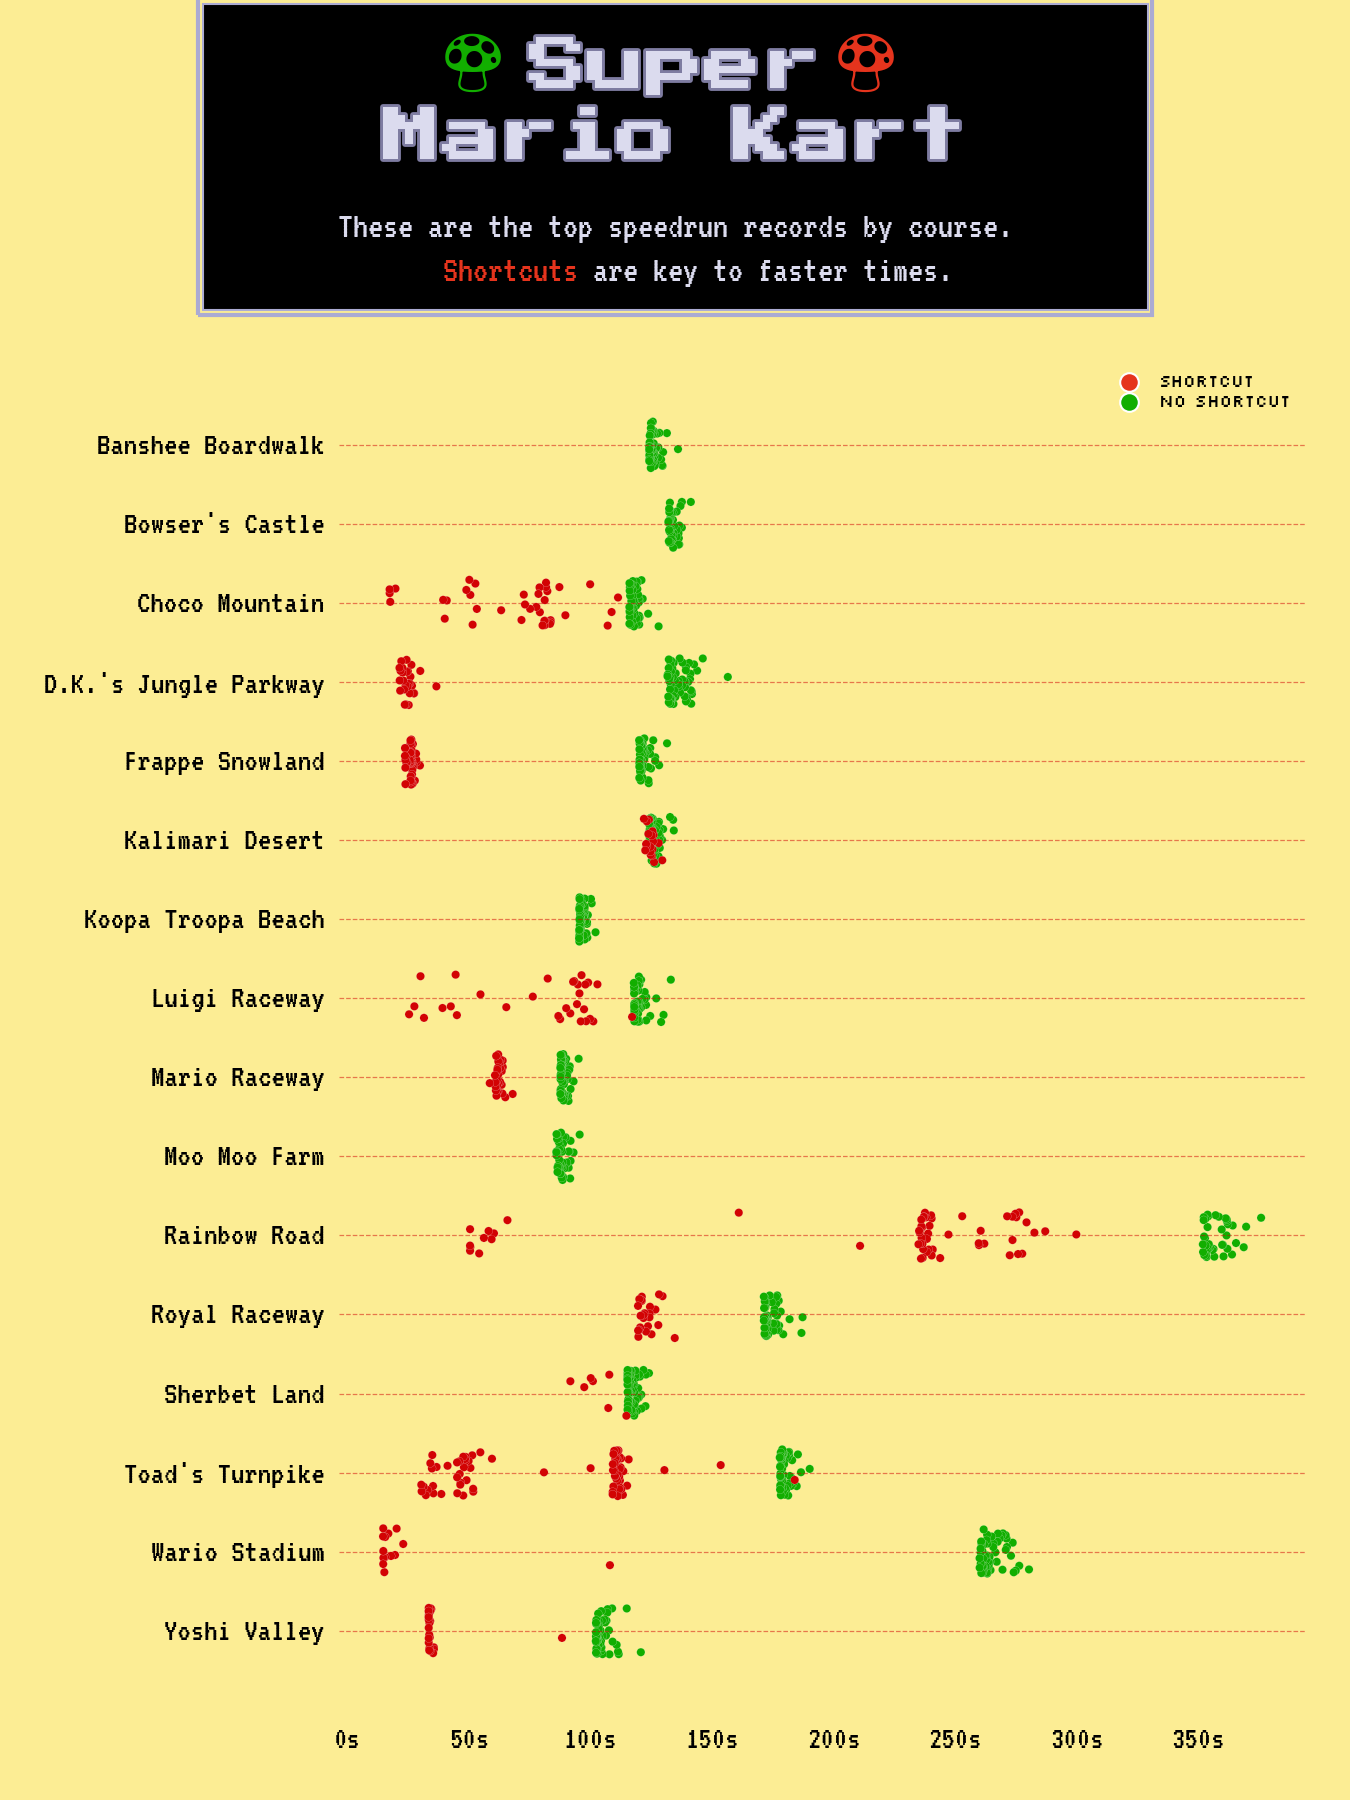
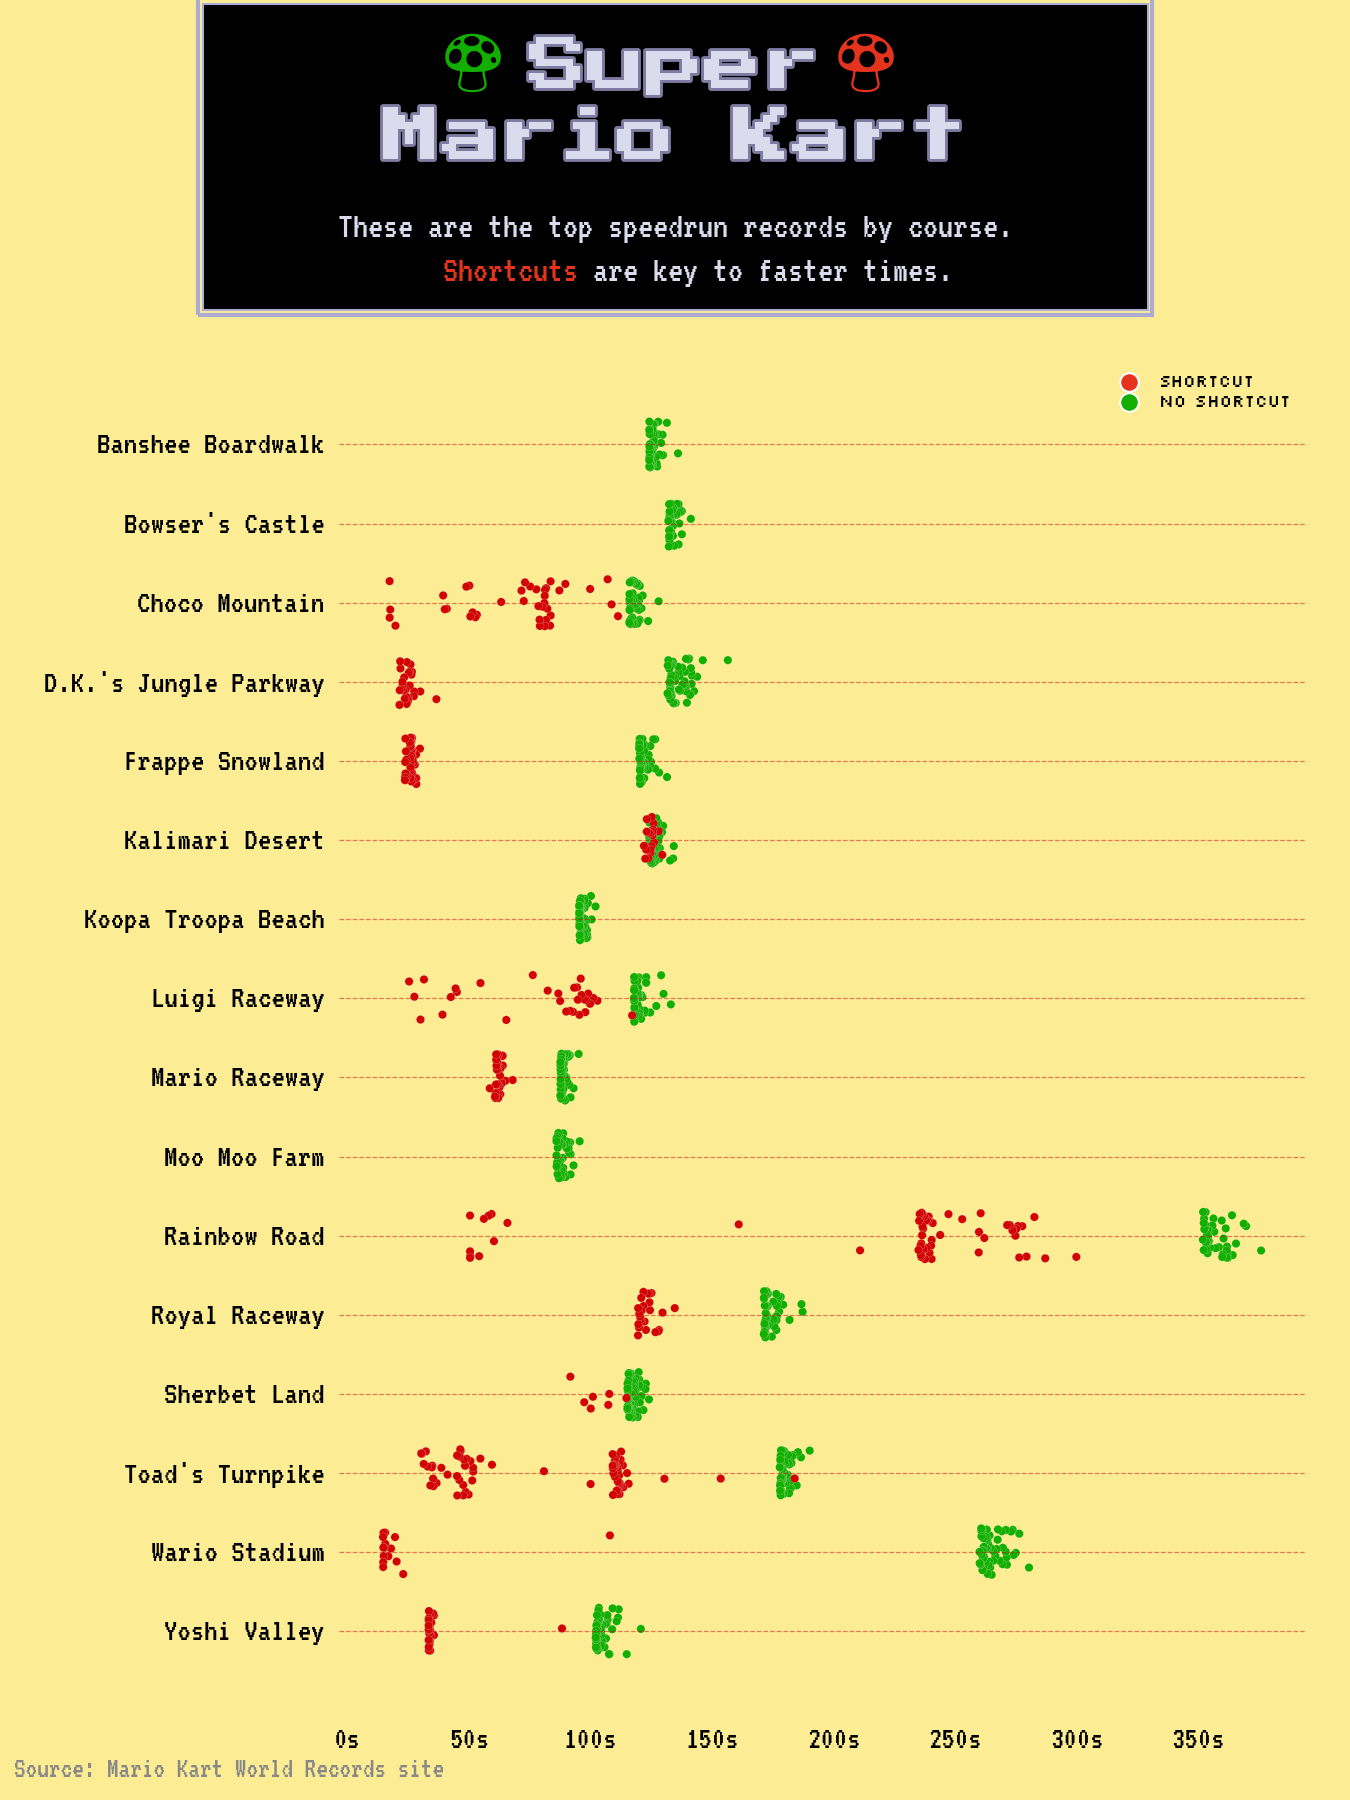
Initial Commit

diff --git a/code/mario_kart_01.py b/code/mario_kart_01.py
@@ -207,6 +207,18 @@ fig_text(
 )
 
 
+fig.text(
+    0.01, 0.01,  # Bottom left corner
+    "Source: Mario Kart World Records site",
+    color="#888888",  # Subtle gray
+    fontsize=7,
+    ha='left',
+    va='bottom',
+    fontproperties=ft_VT323,  # Or any font you prefer
+    transform=fig.transFigure,
+    zorder=1000
+)
+
 fig.tight_layout()
 plt.subplots_adjust(top=0.80)
 fig.savefig('plots/MarioKart-Finish-01.png')
